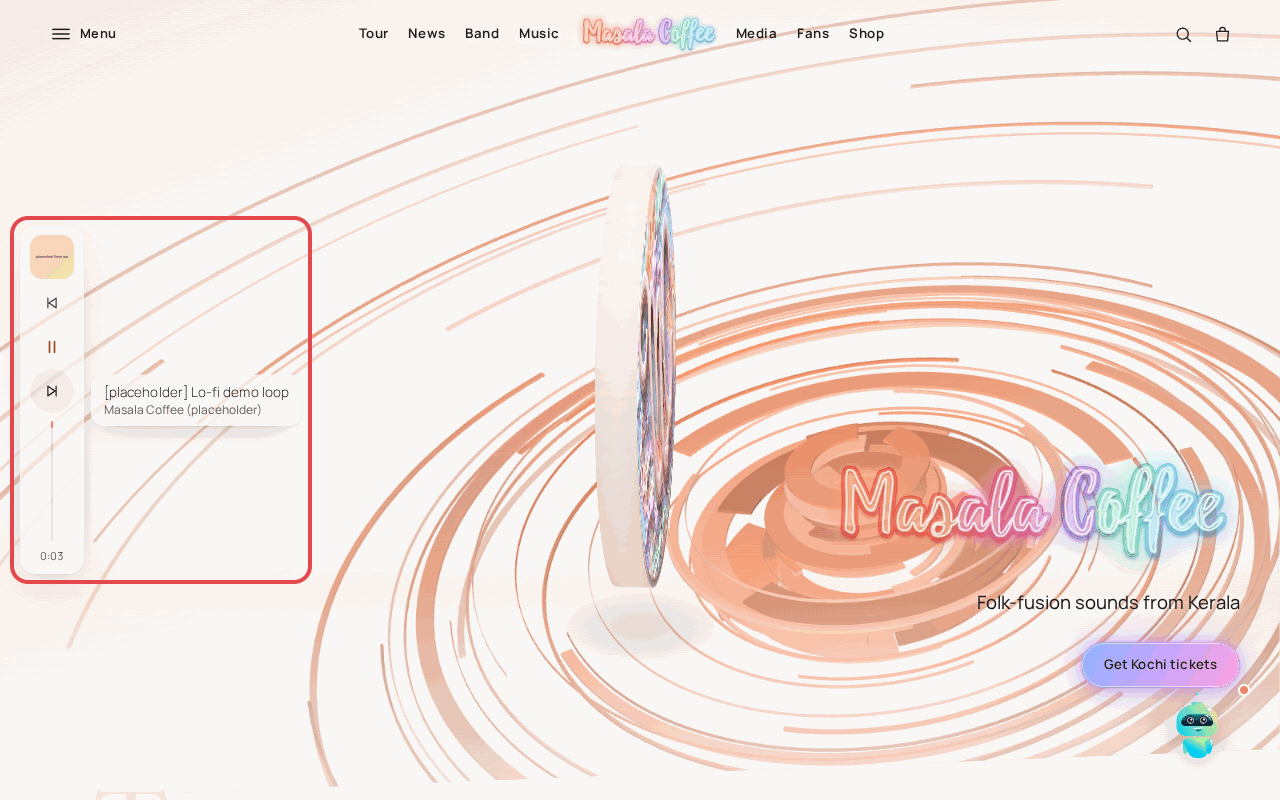
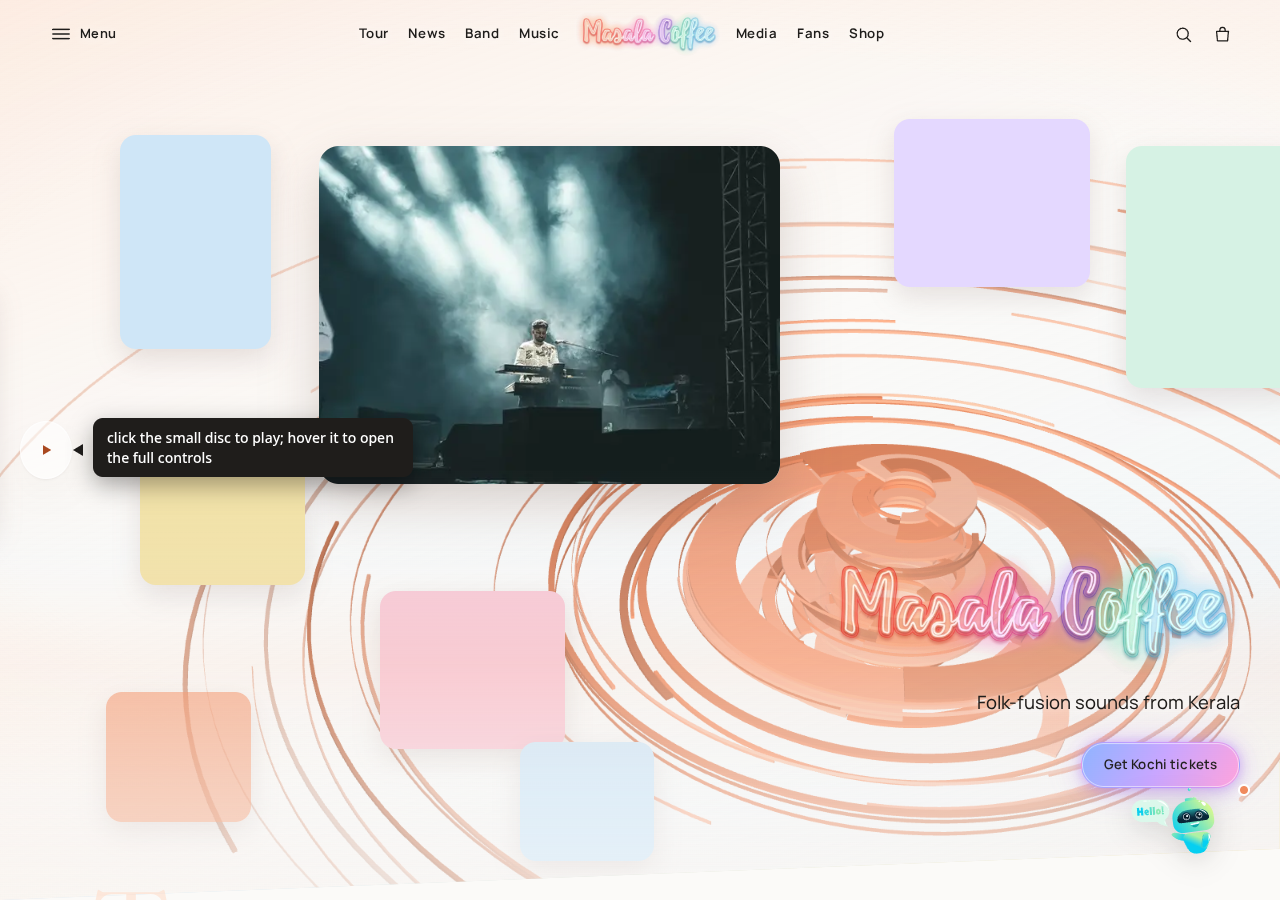
Music player: retake screenshot for the minimized-disc default
Claude-Session: https://claude.ai/code/session_01JFDp2T6UXzod3FCfHHAbTj

diff --git a/README.md b/README.md
@@ -465,15 +465,17 @@ the right to put it online (see the warning below).
 
 #### What it looks like on the site
 
-![The music player bar playing on the homepage](img/ex-13-4-player.png)
+![The music player as a small play-button disc on the homepage, with a note explaining it click the small disc to play; hover it to open the full controls](img/ex-13-4-player.png)
 
-*The bar stands upright against the left edge, halfway down: the cover at the
-top, then back / play / next, then the progress line and the time. It starts
-silent — visitors press play themselves — and then keeps playing as they move
-from page to page. Hovering it slides out the song's name. Scroll down and it
-shrinks to a small circle to stay out of the way; hover over it and it opens
-again. On a phone it sits against the **right** edge instead, so it stays clear
-of the band's name.*
+*It starts as a small circle against the left edge, halfway down, showing
+nothing but a play button — click it and it starts playing right there,
+without opening anything. Hover (or, on a phone, tap the little arrow next to
+it) to open the full bar: cover, back / play / next, the progress line and the
+time; hovering it also slides out the song's name. It stays playing as
+visitors move from page to page, and closes itself back down to the circle a
+few seconds after they stop interacting with it, or if they press Escape. On a
+phone it sits against the **right** edge instead, so it stays clear of the
+band's name.*
 
 #### Common mistakes
 
